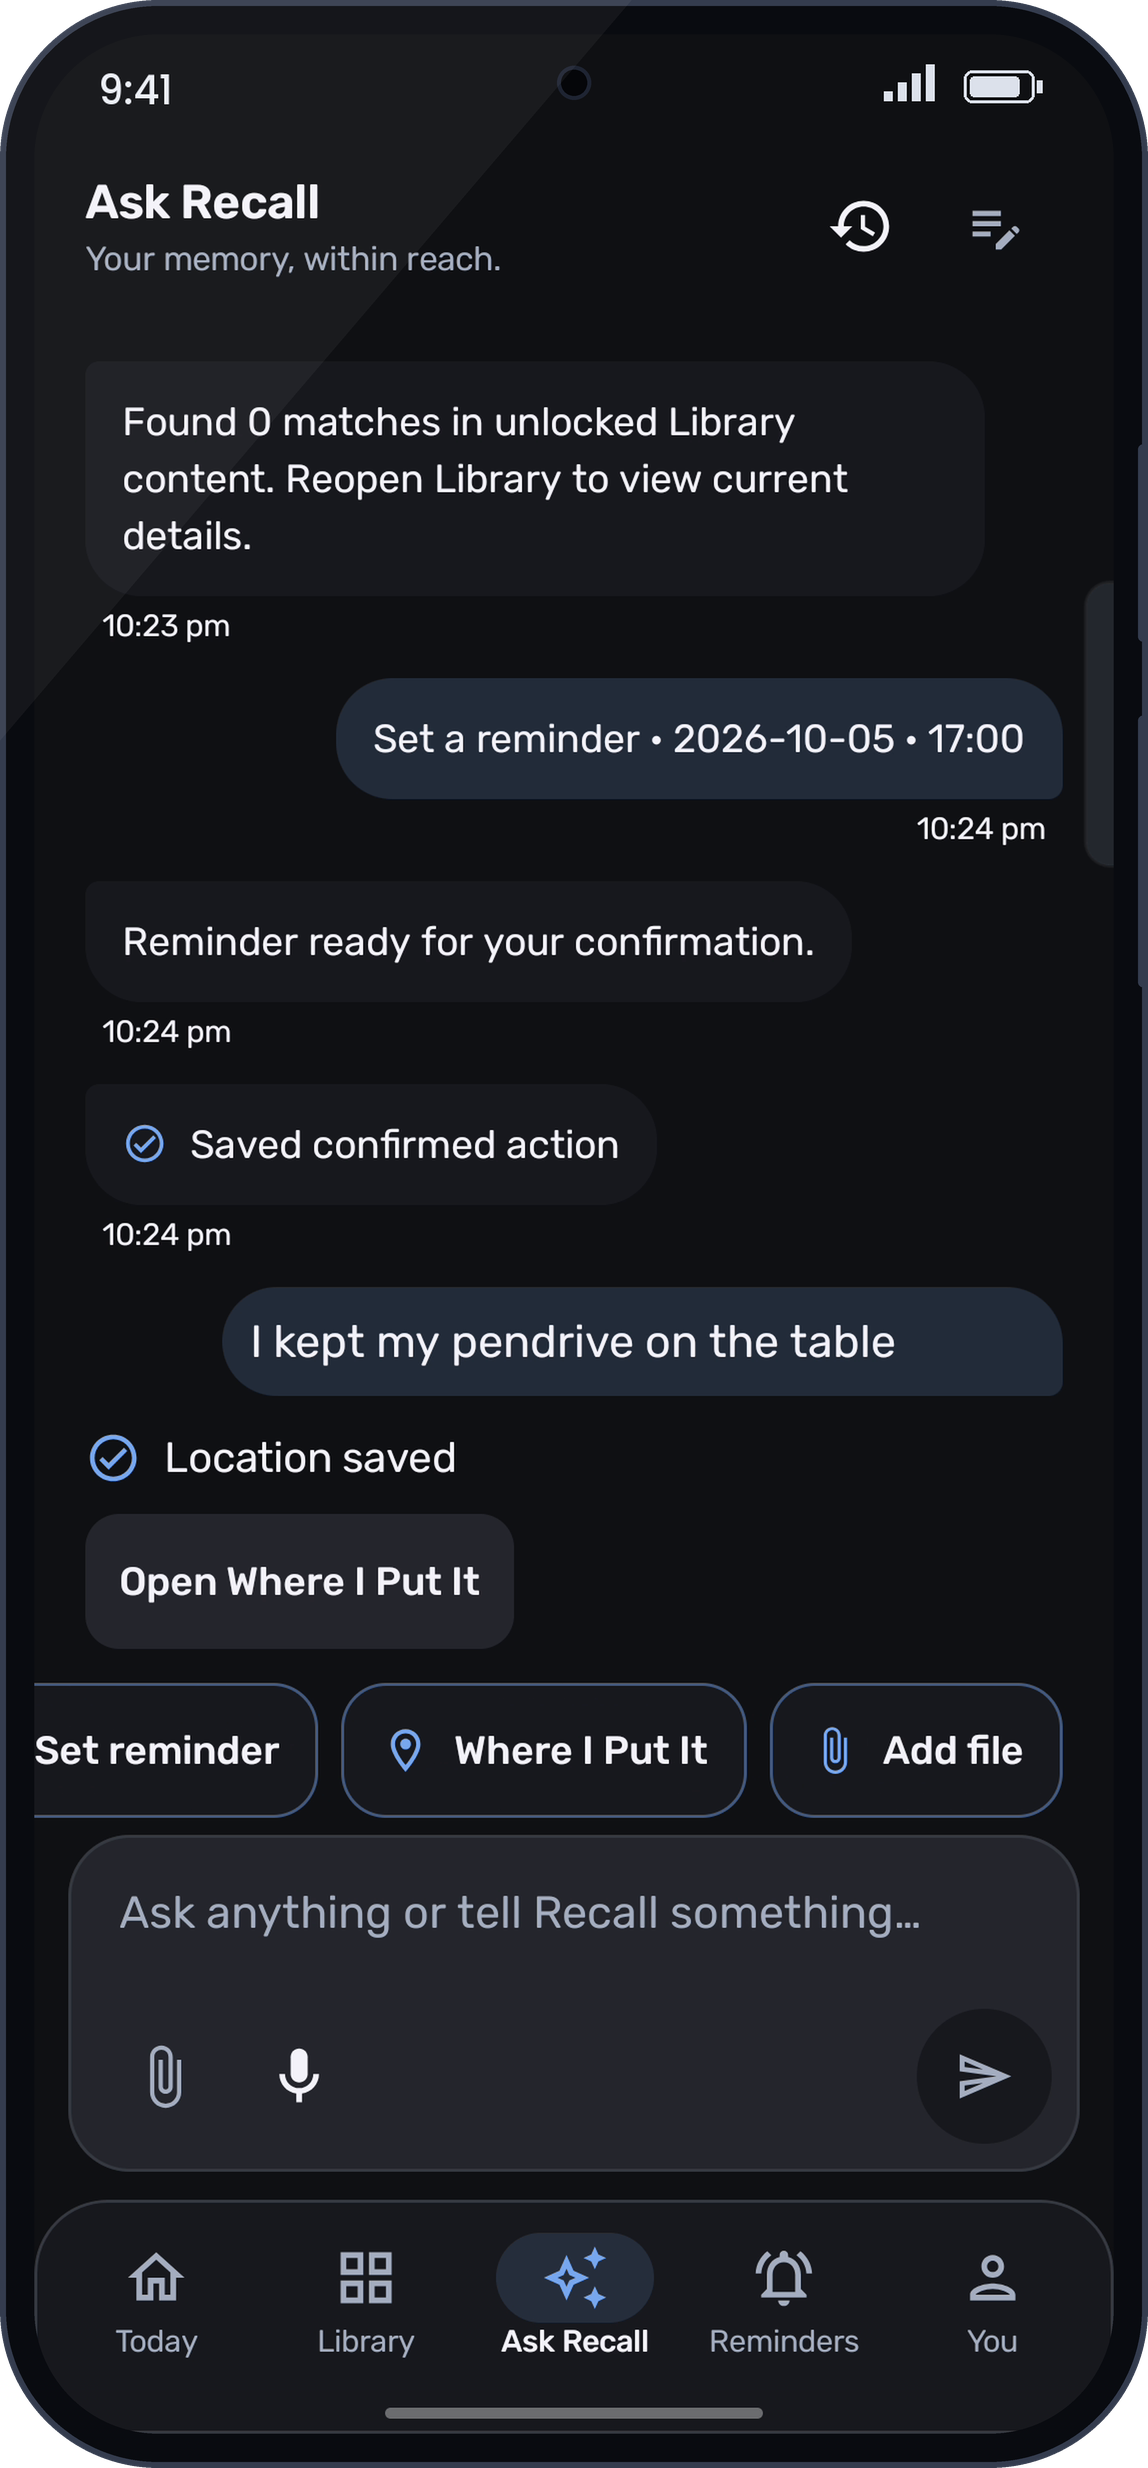
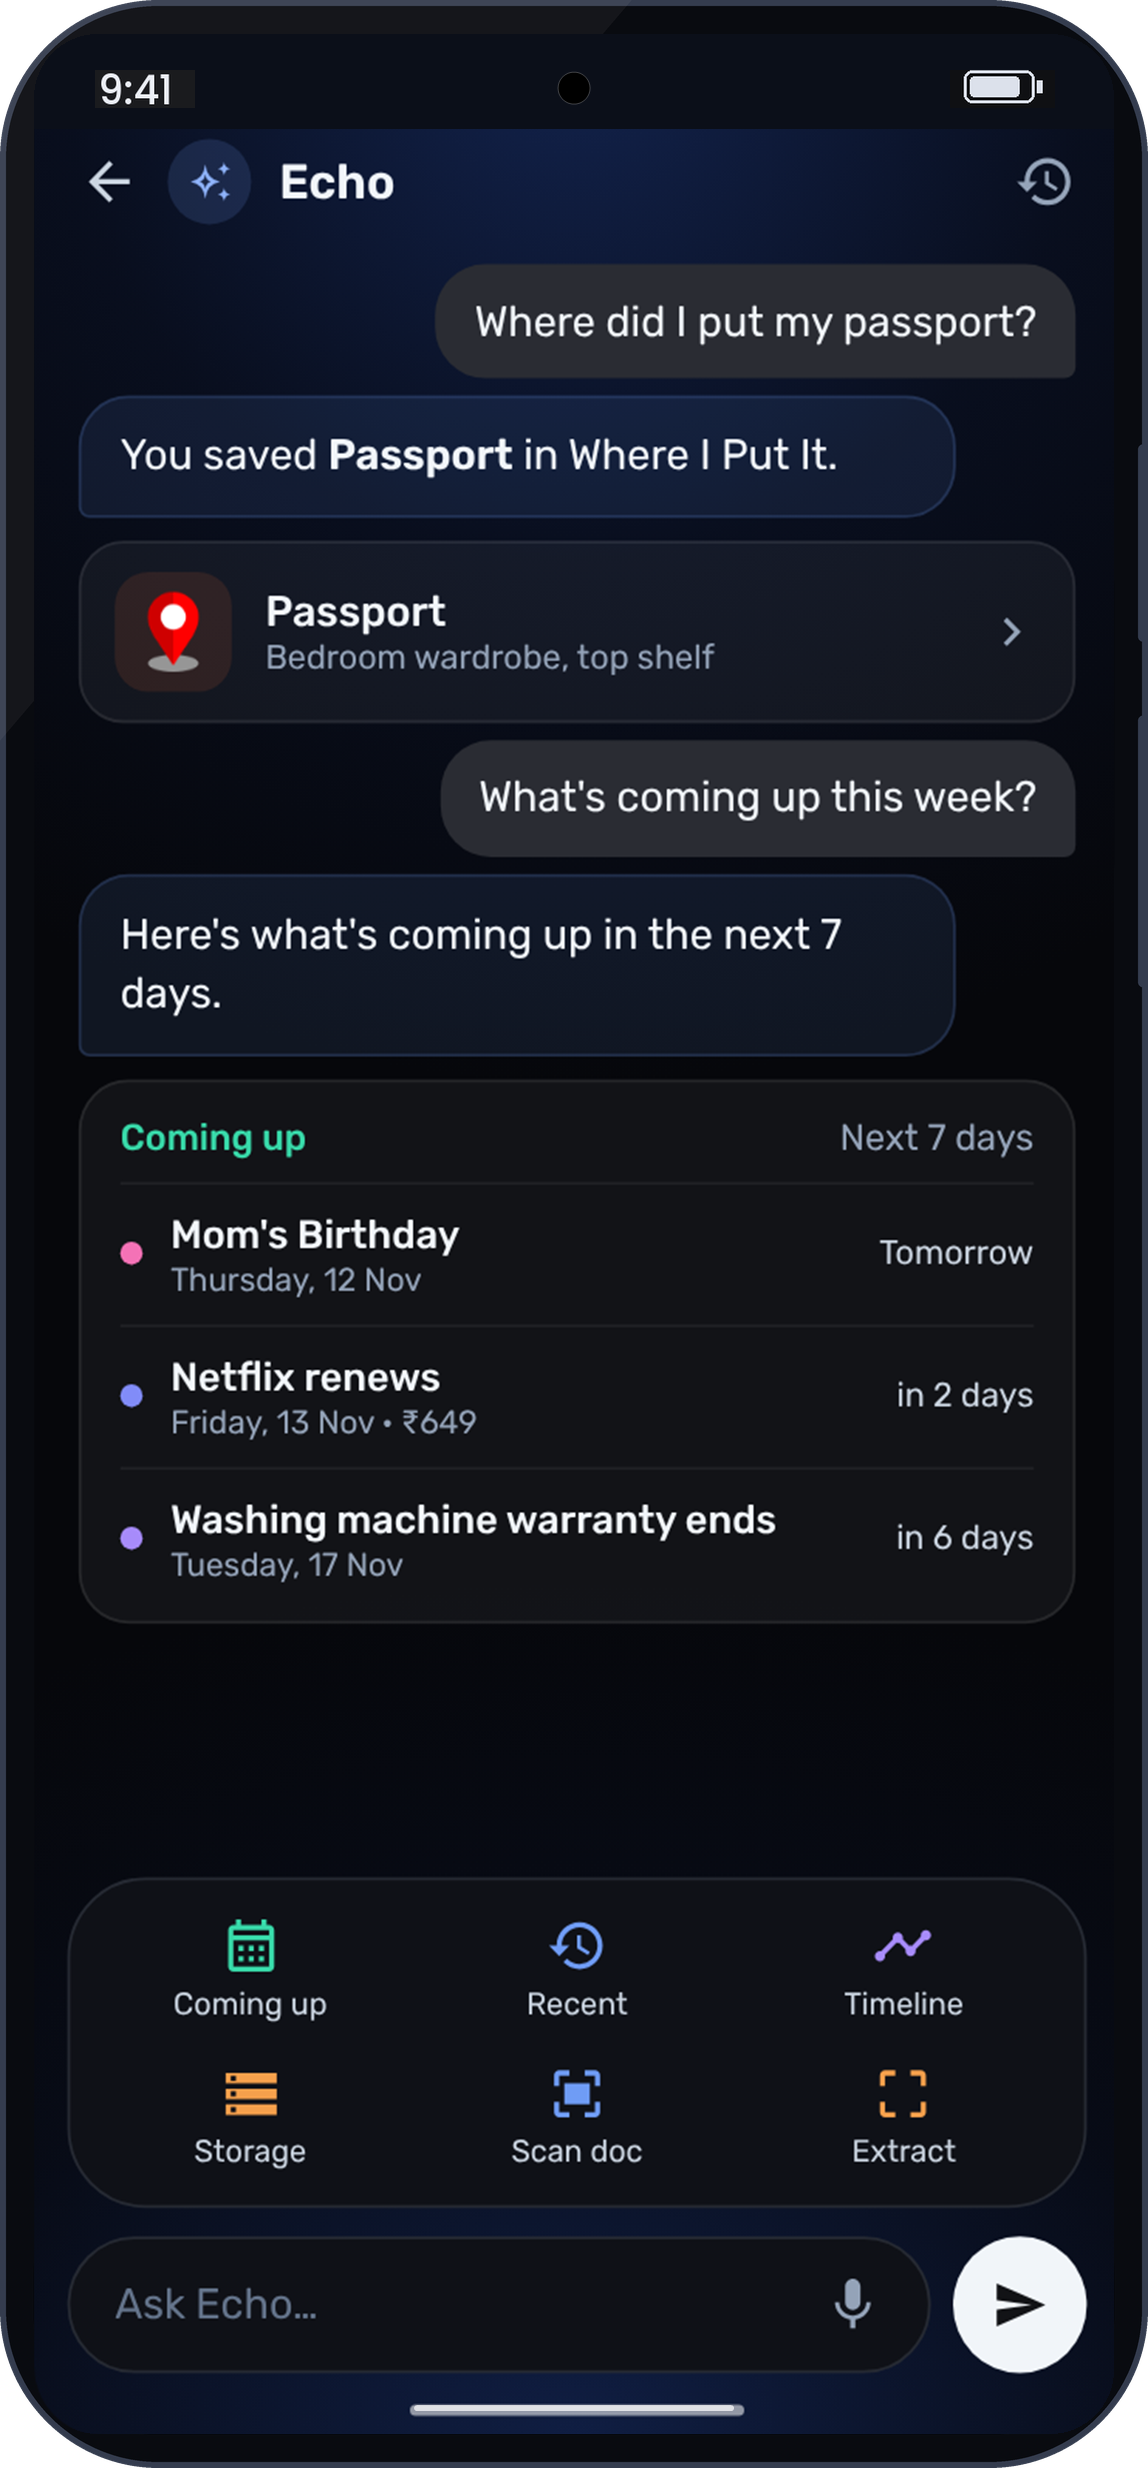
Update Recall hero trio, Echo assistant showcase, and v2.0 details

diff --git a/lib/projects.ts b/lib/projects.ts
@@ -46,21 +46,22 @@ export const projects: Project[] = [
     slug: 'recall',
     index: '01',
     name: 'Recall',
-    apkUrl: 'https://github.com/SeNsXD/Recall/releases/tag/Recall-V1.0',
+    version: '2.0',
+    apkUrl: 'https://github.com/SeNsXD/Recall/releases/tag/v2.0',
     subtitle: 'Your Second Memory',
     description: 'Save what matters. Find it when you need it.',
     accent: 'oklch(0.78 0.12 250)',
     accent2: 'oklch(0.97 0.01 250)',
     logo: '/projects/recall/recall-icon.png',
     platforms: ['Android'],
-    features: ['Ask Recall', 'Where I Put It', 'Reminders', 'Temporary Click', 'Library', 'Replay', 'Google Drive Backup'],
+    features: ['Echo Assistant', 'Where I Put It', 'Reminders & Alarms', 'Temporary Click', 'Library', 'Snap Text OCR', 'Google Drive Backup'],
     tech: [],
     visual: 'product-image',
-    heroImage: { src: '/projects/recall/recall-product-trio.png', alt: 'Recall Library, Home and Replay shown together', width: 3010, height: 2534 },
+    heroImage: { src: '/projects/recall/recall-product-trio.png', alt: 'Recall Library, Home and Echo shown together', width: 3010, height: 2534 },
     screenshots: [
-      { src: '/projects/recall/recall-ask.png', alt: 'Ask Recall confirming a reminder and saving the location of a pendrive', kind: 'framed' },
-      { src: '/projects/recall/recall-library.png', alt: 'Recall Library with saved locations, protected passwords, files, screenshots and Temporary Click', kind: 'framed' },
-      { src: '/projects/recall/recall-home.png', alt: 'Recall Home with an upcoming reminder, pinned collections, Temporary Click and a saved idea', kind: 'framed' },
+      { src: '/projects/recall/recall-echo.png', alt: 'Echo on-device AI assistant recalling passport location and upcoming week events', kind: 'framed' },
+      { src: '/projects/recall/recall-library.png', alt: 'Recall Library with protected passwords, files, receipts, warranties and collections', kind: 'framed' },
+      { src: '/projects/recall/recall-home.png', alt: 'Recall Home with Your Socials, pinned collections, Temporary Click and sticky notes', kind: 'framed' },
       { src: '/projects/recall/recall-replay.png', alt: 'Replay timeline showing saved locations, reminders and memory activity', kind: 'framed' },
       { src: '/projects/recall/recall-drive-backup.png', alt: 'Google Drive Backup with completed backup status and automatic backup controls', kind: 'framed' },
     ],
@@ -72,7 +73,7 @@ export const projects: Project[] = [
       featureDetails: [],
       designProcess: [],
       challenges: [
-        { title: 'Clear actions', description: 'A conversation needs to make the next step clear. Ask Recall shows a reminder for confirmation and acknowledges when a location is saved.' },
+        { title: 'Clear actions', description: 'A conversation needs to make the next step clear. Echo shows contextual memory cards and acknowledges when a location or note is saved.' },
         { title: 'Many kinds of memories', description: 'Locations, files and temporary photos need distinct places while still feeling like one product. Named collections and pinned shortcuts keep them easy to reach.' },
         { title: 'Visible backup state', description: 'Backup needs clear feedback. The screen brings completion status, the last backup and scheduling controls together.' },
       ],

diff --git a/components/case-study/recall-story.tsx b/components/case-study/recall-story.tsx
@@ -4,18 +4,18 @@ import { Reveal } from '../reveal'
 import { CaseSection } from './case-section'
 
 const stories = [
-  { title: 'Ask Recall', intro: 'Tell Recall what you want to remember.', details: [
-    { title: 'Where I Put It', text: 'Save where you left something while the detail is still fresh. Here, a pendrive on the table becomes a saved location.' },
-    { title: 'Reminders', text: 'Turn an intention into a reminder. Review the action before confirming it, then see that it has been saved.' },
+  { title: 'Echo Assistant', intro: 'On-device intelligence that never leaves your phone.', details: [
+    { title: 'Natural memory search', text: 'Ask Echo where you left important belongings in plain language. Echo retrieves exact room and shelf placements instantly.' },
+    { title: 'Upcoming agenda & reminders', text: 'Ask what is coming up to get an instant snapshot of scheduled reminders, warranty expirations and subscription renewals.' },
   ] },
   { title: 'Library', intro: 'A place for every kind of memory.', details: [
-    { title: 'Everyday collections', text: 'Keep files, screenshots, receipts, warranties and subscriptions in named collections. Pin the ones you return to often.' },
-    { title: 'Temporary Click', text: 'Keep a photo for now in its own collection. The shortcut gives temporary photos a clear place alongside things you want to keep.' },
-    { title: 'Passwords and privacy', text: 'The Library marks passwords as protected. This view shows the collection without exposing any login details.' },
+    { title: 'Everyday collections', text: 'Keep files, receipts, warranties, subscriptions and cards in named collections. Pin the ones you return to often.' },
+    { title: 'Temporary Click', text: 'Keep a photo for now in its own collection. Ephemeral drops give temporary photos a clear place alongside permanent records.' },
+    { title: 'Protected credentials', text: 'The Library secures passwords and personal ID cards with hardware keystore encryption, guarded behind biometric authentication.' },
   ] },
-  { title: 'Home', intro: 'What matters today, within reach.', details: [
-    { title: 'Reminders at a glance', text: 'An upcoming call takes the lead, with its time and countdown visible as soon as you open Recall.' },
-    { title: 'Pinned and recently kept', text: 'Reach favourite collections, open Temporary Click and return to a saved idea from one starting point. Recently kept has a place below.' },
+  { title: 'Home', intro: 'Your daily dashboard, centered around your memory.', details: [
+    { title: 'Your Socials & quick links', text: 'Access your connected profiles, brand links and essential shortcuts right from the top carousel.' },
+    { title: 'Pinned vaults & Sticky Notes', text: 'Jump directly into your most-used collections, launch Temporary Click, or jot down thoughts on the sticky note pad.' },
   ] },
   { title: 'Replay', intro: 'Return to the moments you saved.', details: [
     { title: 'A timeline of activity', text: 'See memories, reminders and saved locations in time order. Filters let you revisit today, yesterday or earlier activity.' },
